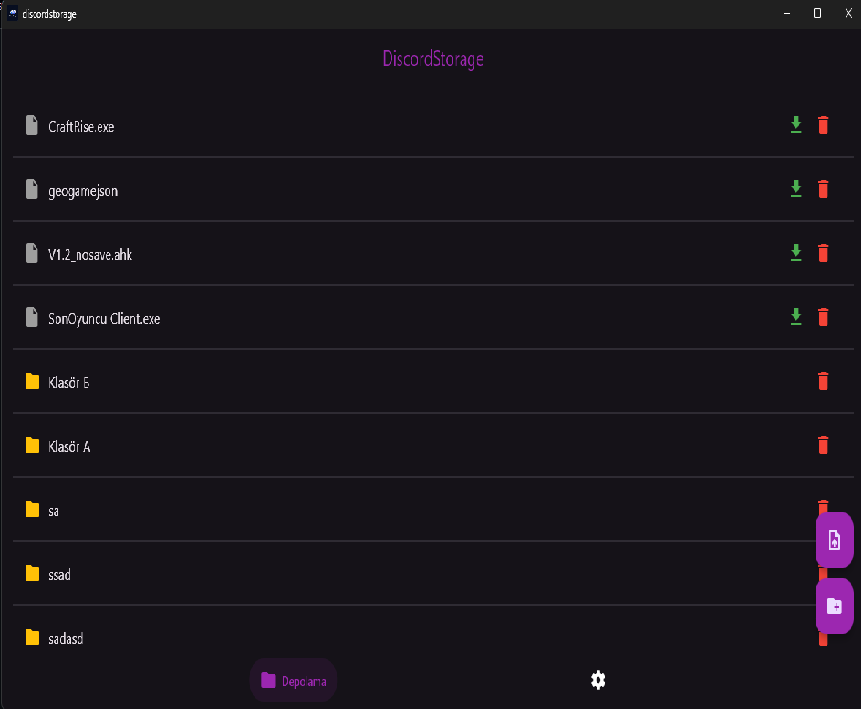
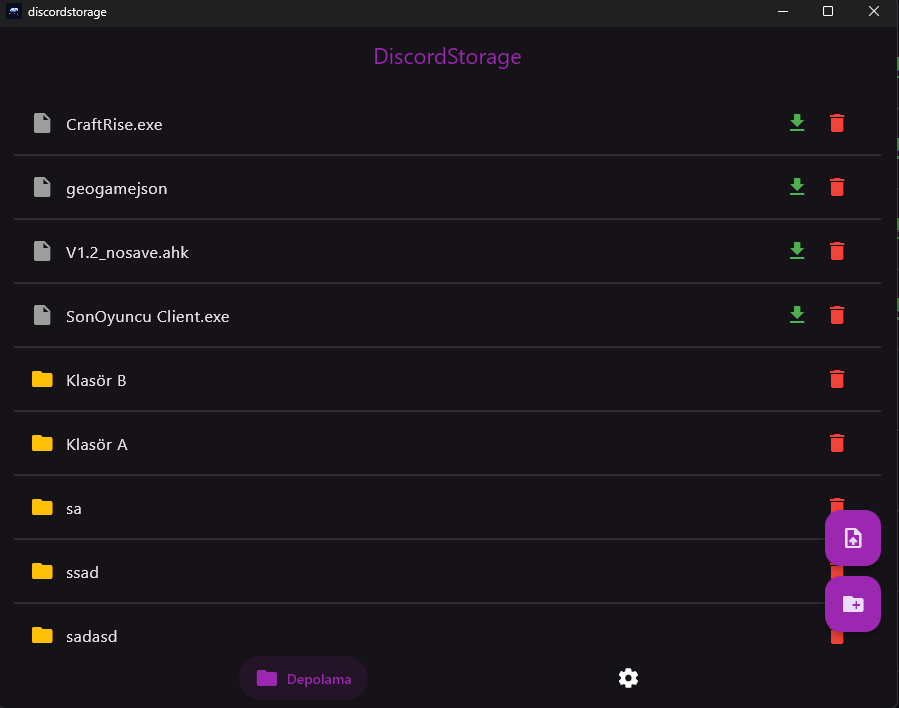
feat(ProjectCard): add new project and update existing project details
Added a new project "GeoGame - Ülkeler ve Başkentler C++ Versiyonu" to the projects list. Updated the titles and features of existing projects to reflect their technology stack (C++ or Flutter) and other minor corrections.

diff --git a/src/app/components/ProjectCard.tsx b/src/app/components/ProjectCard.tsx
@@ -112,16 +112,32 @@ const ProjectCard: React.FC<Project> = ({
 const ProjelerSection: React.FC = () => {
   const projectsData: Project[] = [
     {
+      imageUrl: "/imgs/geogamecpp.png",
+      altText: "GeoGameCPP",
+      isNew: false,
+      isDeveloping: false,
+      title: "GeoGame - Ülkeler ve Başkentler C++ Versiyonu",
+      features: [
+        "Çevrimdışı kullanım",
+        "Açık kaynak",
+        "Windows",
+        "C++",
+      ],
+      featureIcons: [faCheckCircle, faFilePen, faLaptop, faGaugeHigh],
+      viewLink: "#",
+      githubLink: "https://github.com/KeremKuyucu/geogameCpp",
+    },
+    {
       imageUrl: "/imgs/geogame.png",
       altText: "GeoGame",
       isNew: false,
       isDeveloping: false,
-      title: "GeoGame - Ülkeler ve Başkentler",
+      title: "GeoGame - Ülkeler ve Başkentler Flutter İle Yeniden Yapıldı",
       features: [
         "Çevrimiçi veya çevrimdışı kullanım",
         "Açık kaynak",
         "Android ve Windows",
-        "Performanslı",
+        "Flutter",
       ],
       featureIcons: [faCheckCircle, faFilePen, faLaptop, faGaugeHigh],
       viewLink: "https://geogame.keremkk.com.tr",
@@ -137,7 +153,7 @@ const ProjelerSection: React.FC = () => {
         "Yapay Zeka Destekli",
         "Açık Kaynak",
         "Android",
-        "Performanslı",
+        "Flutter",
       ],
       featureIcons: [faCheckCircle, faFilePen, faLaptop, faGaugeHigh],
       viewLink: "https://pikamed.keremkk.com.tr",
@@ -148,12 +164,12 @@ const ProjelerSection: React.FC = () => {
       altText: "DiscordStorageCPP",
       isNew: false,
       isDeveloping: false,
-      title: "DiscordStorage - Discord Dosya Depolama",
+      title: "DiscordStorage - Discord Dosya Depolama - C++ Versiyonu",
       features: [
         "Bot Tokeni İle Çalışır",
         "Açık Kaynak",
         "Windows",
-        "Hızlı Yükleme",
+        "C++",
       ],
       featureIcons: [faCheckCircle, faFilePen, faLaptop, faGaugeHigh],
       viewLink: "#",
@@ -161,7 +177,7 @@ const ProjelerSection: React.FC = () => {
     },
     {
       imageUrl: "/imgs/discordstorage.png",
-      altText: "DiscordStorageCPP",
+      altText: "DiscordStorage",
       isNew: true,
       isDeveloping: true,
       title: "DiscordStorage - Discord Dosya Depolama - Flutter İle Yeniden Yapıldı",
@@ -169,7 +185,7 @@ const ProjelerSection: React.FC = () => {
         "Bot Tokeni İle Çalışır",
         "Açık Kaynak",
         "Android ve Windows",
-        "Hızlı Yükleme",
+        "Flutter",
       ],
       featureIcons: [faCheckCircle, faFilePen, faLaptop, faGaugeHigh],
       viewLink: "#",
